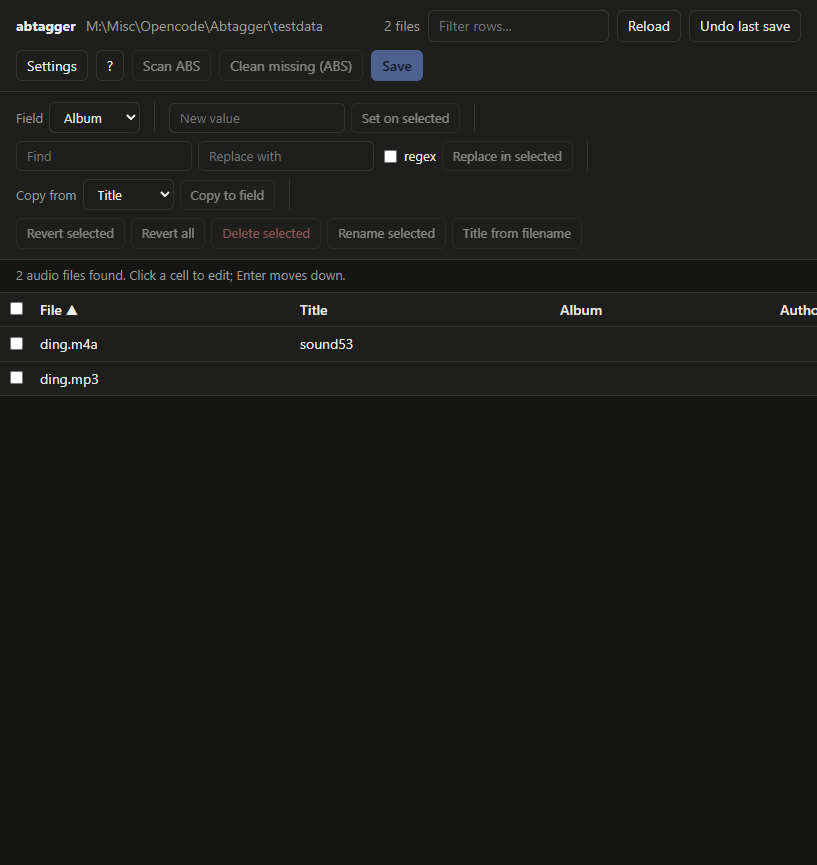
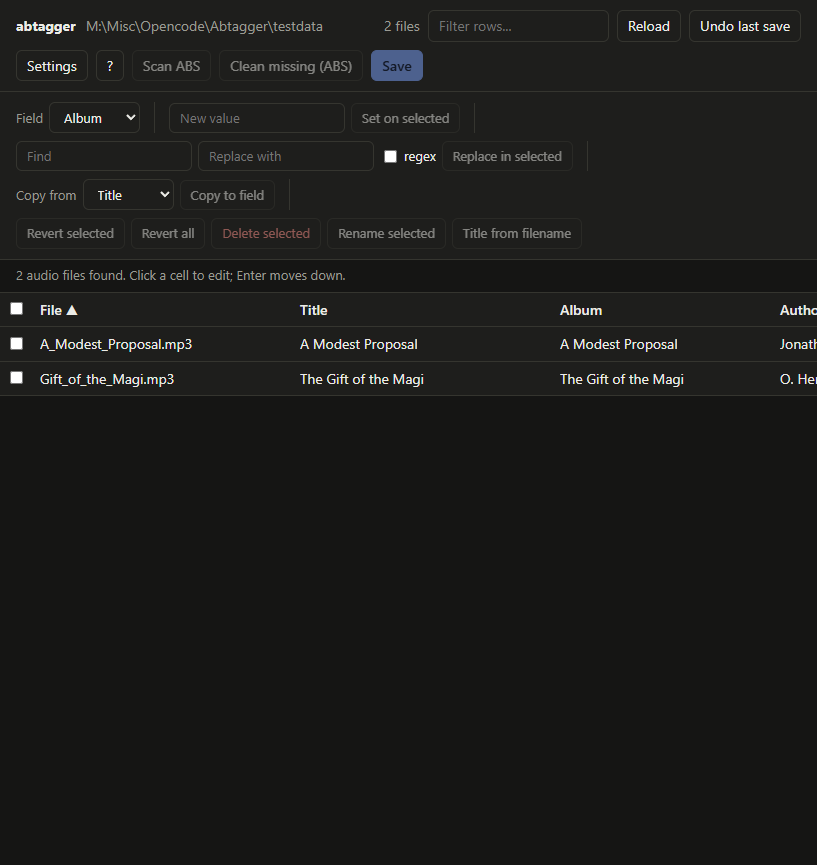
Update screenshot with public-domain audiobooks

diff --git a/tests/test_abtagger.py b/tests/test_abtagger.py
@@ -70,10 +70,10 @@ class TestRoundTrip(unittest.TestCase):
         self.root.mkdir()
         # copy sample audio files from testdata if present
         src = Path(__file__).resolve().parents[1] / "testdata"
-        self.has_mp3 = (src / "ding.mp3").is_file()
+        self.has_mp3 = (src / "Gift_of_the_Magi.mp3").is_file()
         self.has_m4a = (src / "ding.m4a").is_file()
         if self.has_mp3:
-            shutil.copy(src / "ding.mp3", self.root / "book.mp3")
+            shutil.copy(src / "Gift_of_the_Magi.mp3", self.root / "book.mp3")
         if self.has_m4a:
             shutil.copy(src / "ding.m4a", self.root / "book.m4a")
 
